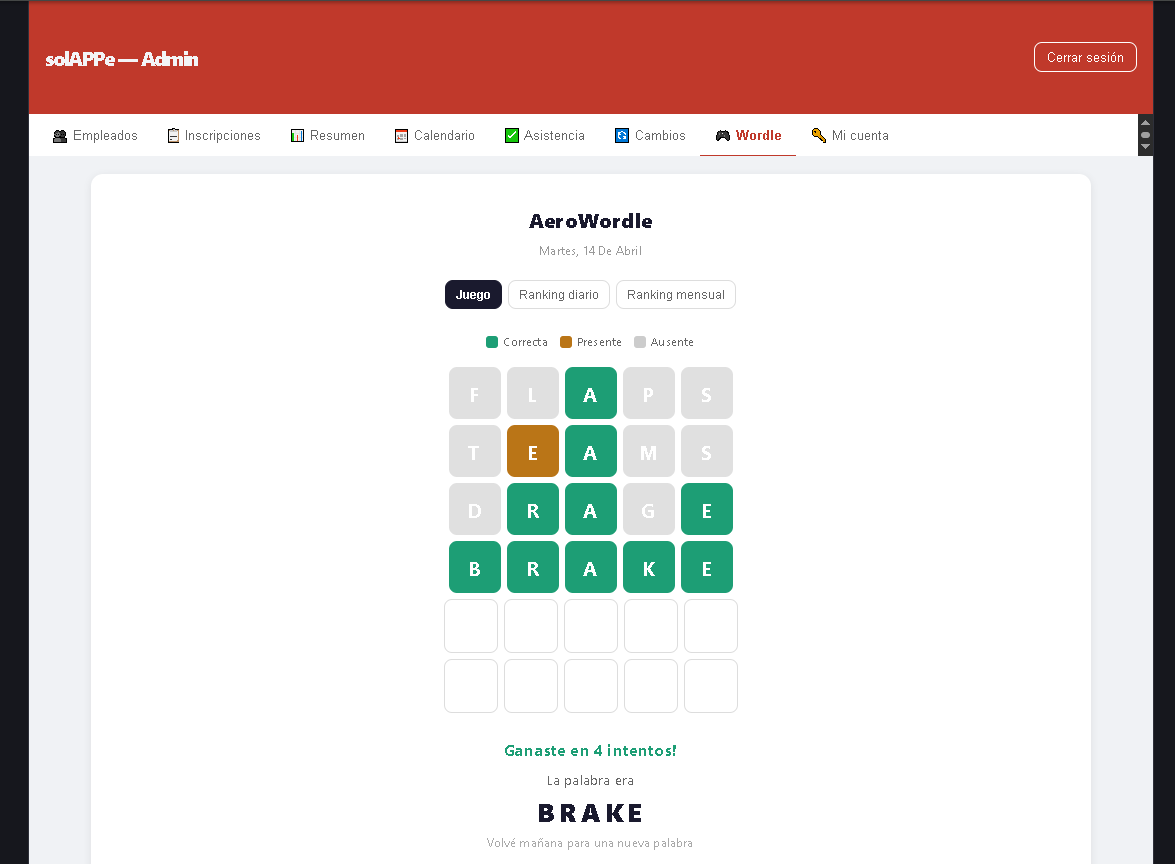
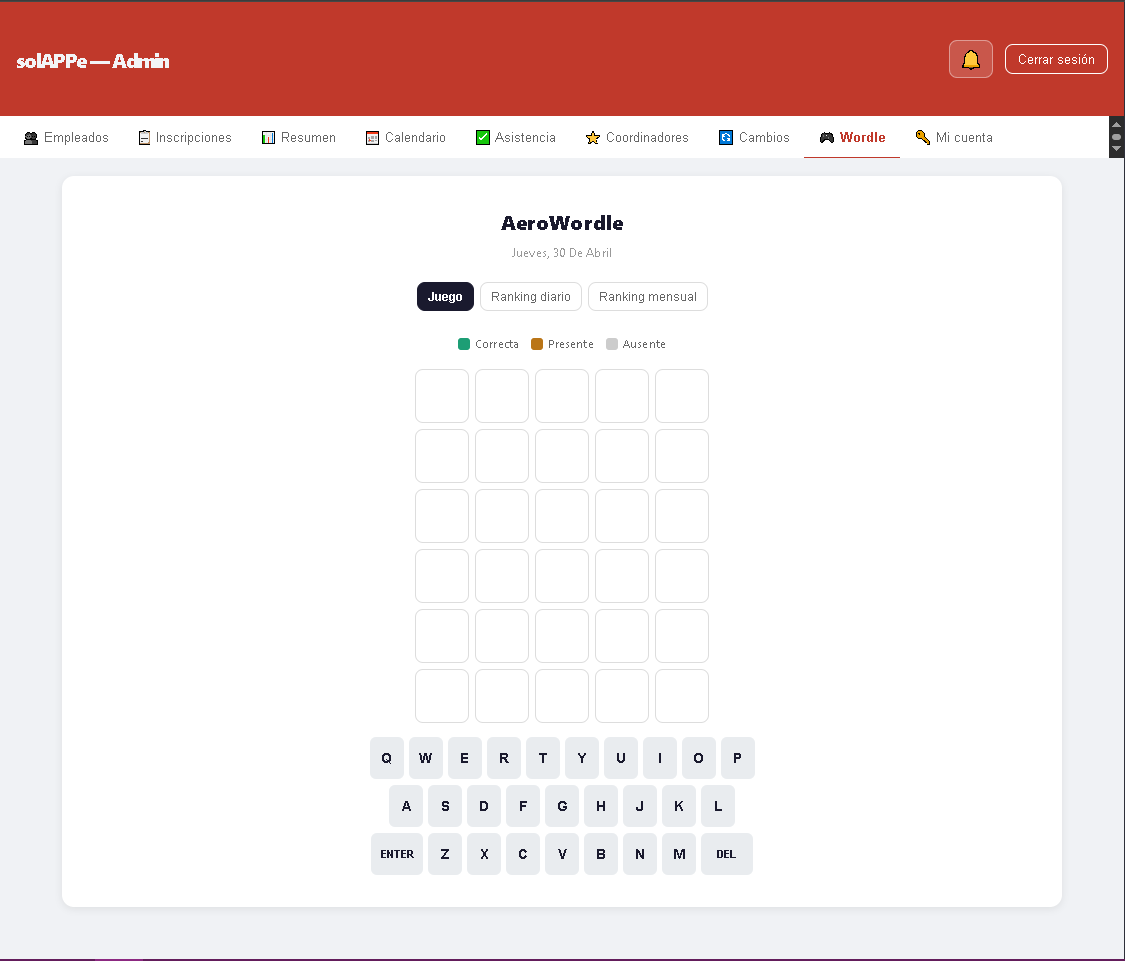
fix: wordle reinicio intentos + palabras limpias, calendario bloqueo solicitudes duplicadas

diff --git a/src/pages/Wordle.jsx b/src/pages/Wordle.jsx
@@ -1,16 +1,45 @@
 import { useState, useEffect } from "react";
 import { auth, db } from "../firebase";
-import { doc, getDoc, setDoc, updateDoc } from "firebase/firestore";
+import { doc, getDoc, setDoc } from "firebase/firestore";
 
+// Lista ampliada con palabras de los MEL A330 y B737-NG + términos aeronáuticos válidos
 const PALABRAS = [
-  "RADAR","FLAPS","PITCH","STALL","RADIO","PISTA","TOWER","SPEED","CLIMB","GLIDE",
-  "FLARE","BRAKE","BOOST","CARGO","DELTA","OSCAR","ROMEO","TANGO","ULTRA","VAPOR",
-  "KNOTS","LASER","MILLA","NODOS","PULSO","SIGMA","XENON","YAWEO","TIRES","SHOCK",
-  "PROBE","OZONE","NIGHT","MIXER","LEVER","INLET","GAUGE","FENCE","DRAIN","CHORD",
-  "BLADE","HIELO","NIEVE","TURBO","SERVO","AVION","VUELO","MOTOR","VIRAJ",
-  "MORRO","NORTE","GRUES","PAUSA","BALOM","CABLE","HERTZ","IONES","JATOS","RACON",
-  "TENOR","VOLTS","WATTS","WINGS","EXTRA","HATCH","ELBOW","ABAFT","AHEAD","BELOW",
-  "ALTIT","UPPER","RUDDE","GRABA","ENFOK",
+  // Originales válidas
+  "RADAR","FLAPS","PITCH","STALL","RADIO","TOWER","SPEED","CLIMB","GLIDE",
+  "FLARE","BRAKE","CARGO","DELTA","ROMEO","TANGO","VAPOR",
+  "KNOTS","LASER","PROBE","NIGHT","LEVER","INLET","GAUGE","DRAIN","CHORD",
+  "BLADE","TURBO","SERVO","AVION","VUELO","MOTOR",
+  "CABLE","HERTZ","VOLTS","WATTS","WINGS","HATCH",
+  // Desde MEL A330/B737 validadas
+  "ALPHA","BELTS","BLEED","BRACE","FRAME","GEARS","INERT","PEDAL",
+  "PUMPS","SHAFT","SLIDE","SPLIT","SURGE","XWIND","GRAPH","ADAPT",
+  "START","INPUT","TWICE","WHITE","INDEX",
+  // Términos aeronáuticos de 5 letras adicionales
+  "PITOT","SLATS","WHEEL","SEATS","FLARE","VOICE","VIDEO","WATER",
+  "ACARS","LATCH","HINGE","TOUCH","SQUIB","ETOPS",
+  // Inglés aeronáutico jugable
+  "ABORT","ALIGN","AXIAL","BOOST","CABIN","CHECK","CYCLE","DATUM",
+  "DECAL","DEPOT","DITCH","EJECT","EGPWS","ELBOW","ENRTE","ENTER",
+  "EXPEL","FERRY","FINAL","FLAIR","FLANK","FLOOR","FLOUT","FLUSH",
+  "FOILS","FUMES","FUSEL","GLIDE","GLINT","GLOBE","GLOSS","GONZO",
+  "GRIDS","GRIPS","GROSS","GUARD","GYROS","HOLDS","HOVER","HUMID",
+  "HYDRO","IGLOO","IGNIT","INSTR","INTER","IONIC","JOINT","JOULE",
+  "KNEEL","LAPSE","LATCH","LEANS","LIMIT","LINER","LOCAL","LORAN",
+  "MAINS","MASSE","MIXER","MLG","NOZZL","OMEGA","OUTER","OVHD",
+  "OZONE","PANEL","PEDAL","PHASE","PITCH","PIXEL","PLUMB","POLAR",
+  "PROBE","PURGE","RACON","RANGE","RELAY","RESET","RIVET","ROTOR",
+  "ROUTE","RUDDE","SCHED","SEALS","SHEAR","SHIFT","SHOCK","SHORT",
+  "SHUTT","SKEWS","SLIDE","SLIPS","SLOTS","SMOKE","SONIC","SPILL",
+  "SPOKE","SPOOL","SPRAY","STACK","STAGE","STALL","STEER","STERN",
+  "STOPS","STRUT","SURGE","SWEEP","SWEPT","SWIRL","SYNCH","TABLT",
+  "TEMPO","THROT","TILTS","TIMER","TORQU","TOXIC","TRACK","TRANS",
+  "TRIMS","TROPO","TRUNN","TUNER","TURBO","TWIST","ULTRA","UMBIL",
+  "VALVE","VAPOR","VENTS","VERGE","VLOCS","VORTX","WARNS","WASHS",
+  "WEDGE","WEIGH","WIRES","YOKES","ZONES",
+  // Español aeronáutico
+  "HIELO","NIEVE","NORTE","MORRO","PISTA","AVION","VUELO",
+  "MOTOR","TURBO","DELTA","CABLE","SIGMA","ULTRA","VAPOR","NODOS",
+  "MILLA","PULSO","TENOR","HERTZ","IONES","PAUSA","SERVO",
 ].map(p => p.replace(/[^A-Z]/g,'').slice(0,5)).filter(p => p.length === 5);
 
 const PALABRAS_LIMPIAS = [...new Set(PALABRAS)];
@@ -65,7 +94,6 @@ export default function Wordle() {
   }, [tab, juegoTerminado, intentoActual, intentos]);
 
   const iniciar = async () => {
-    // 1. Leer nombre del empleado desde Firestore
     let nombre = "Anónimo";
     if (user) {
       try {
@@ -80,16 +108,40 @@ export default function Wordle() {
     }
     setUserName(nombre);
 
-    // 2. Recuperar estado del día desde localStorage
+    // Recuperar estado del día — tanto partidas terminadas como en curso
     const estadoGuardado = localStorage.getItem("wordle_estado_" + getTodayKey());
     if (estadoGuardado) {
-      const estado = JSON.parse(estadoGuardado);
-      setIntentos(estado.intentos);
-      setJuegoTerminado(true);
-      setGano(estado.gano);
+      try {
+        const estado = JSON.parse(estadoGuardado);
+        setIntentos(estado.intentos || []);
+        // Si el juego terminó, restaurar estado final
+        if (estado.terminado) {
+          setJuegoTerminado(true);
+          setGano(estado.gano || false);
+        }
+        // Si no terminó pero hay intentos, restaurar en curso
+        // (juegoTerminado queda false, el jugador puede seguir)
+      } catch (e) {
+        console.error("Error restaurando estado:", e);
+      }
     }
     setCargado(true);
   };
+
+  // Guardar estado parcial cada vez que cambian los intentos
+  useEffect(() => {
+    if (!cargado) return;
+    const estadoActual = localStorage.getItem("wordle_estado_" + getTodayKey());
+    const estado = estadoActual ? JSON.parse(estadoActual) : {};
+    // Solo actualizar si no terminó (si terminó, guardarResultado ya lo hizo)
+    if (!estado.terminado) {
+      localStorage.setItem("wordle_estado_" + getTodayKey(), JSON.stringify({
+        intentos,
+        terminado: false,
+        gano: false,
+      }));
+    }
+  }, [intentos, cargado]);
 
   const evaluar = (intento, palabra) => {
     const res = Array(5).fill(null).map((_, i) => ({ letra: intento[i], estado: "absent" }));
@@ -133,15 +185,16 @@ export default function Wordle() {
   };
 
   const guardarResultado = async (intentosFinal, gano) => {
-    // Guardar estado local para no repetir hoy
-    localStorage.setItem("wordle_estado_" + getTodayKey(), JSON.stringify({ intentos: intentosFinal, gano }));
+    // Guardar estado final — marcado como terminado
+    localStorage.setItem("wordle_estado_" + getTodayKey(), JSON.stringify({
+      intentos: intentosFinal,
+      terminado: true,
+      gano,
+    }));
 
     const nombre = userName;
     const uid = user?.uid || "anonimo";
 
-    // --- Ranking diario en Firestore ---
-    // Documento: wordleRanking/{fecha}
-    // Campo: jugadores[uid] = { nombre, intentos, gano, ts }
     try {
       const refDiario = doc(db, "wordleRanking", getTodayKey());
       const snapDiario = await getDoc(refDiario);
@@ -152,15 +205,11 @@ export default function Wordle() {
       console.error("Error guardando ranking diario:", e);
     }
 
-    // --- Ranking mensual en Firestore ---
-    // Documento: wordleRankingMensual/{año-mes}
-    // Campo: jugadores[uid] = { nombre, victorias, totalIntentos, partidas }
     try {
       const refMensual = doc(db, "wordleRankingMensual", getMonthKey());
       const snapMensual = await getDoc(refMensual);
       const jugadores = snapMensual.exists() ? (snapMensual.data().jugadores || {}) : {};
       if (!jugadores[uid]) jugadores[uid] = { nombre, victorias: 0, totalIntentos: 0, partidas: 0 };
-      // Actualizar nombre por si cambió
       jugadores[uid].nombre = nombre;
       jugadores[uid].partidas++;
       if (gano) {
@@ -174,30 +223,22 @@ export default function Wordle() {
   };
 
   const cargarRankings = async () => {
-    // Ranking diario
     try {
       const snapDiario = await getDoc(doc(db, "wordleRanking", getTodayKey()));
       const jugadores = snapDiario.exists() ? Object.values(snapDiario.data().jugadores || {}) : [];
-      const listaDiaria = jugadores.sort((a, b) =>
+      setRankingDiario(jugadores.sort((a, b) =>
         a.gano === b.gano ? a.intentos - b.intentos : (b.gano ? 1 : -1)
-      );
-      setRankingDiario(listaDiaria);
-    } catch (e) {
-      setRankingDiario([]);
-    }
+      ));
+    } catch (e) { setRankingDiario([]); }
 
-    // Ranking mensual
     try {
       const snapMensual = await getDoc(doc(db, "wordleRankingMensual", getMonthKey()));
       const jugadores = snapMensual.exists() ? Object.values(snapMensual.data().jugadores || {}) : [];
-      const listaMensual = jugadores.sort((a, b) =>
+      setRankingMensual(jugadores.sort((a, b) =>
         b.victorias !== a.victorias ? b.victorias - a.victorias
           : (a.victorias > 0 ? a.totalIntentos / a.victorias : 99) - (b.victorias > 0 ? b.totalIntentos / b.victorias : 99)
-      );
-      setRankingMensual(listaMensual);
-    } catch (e) {
-      setRankingMensual([]);
-    }
+      ));
+    } catch (e) { setRankingMensual([]); }
   };
 
   const estadosLetras = {};
@@ -221,7 +262,6 @@ export default function Wordle() {
 
   if (!cargado) return null;
 
-  // Tamaños responsivos: se achican en pantallas chicas
   const celdaSize = "clamp(38px, 11vw, 52px)";
   const celdaFont = "clamp(15px, 4vw, 20px)";
   const teclaMin = "clamp(24px, 7.5vw, 34px)";
@@ -237,7 +277,6 @@ export default function Wordle() {
       </div>
       <div style={{ textAlign: "center", fontSize: 12, color: "#999", marginBottom: 16, textTransform: "capitalize" }}>{nombreHoy}</div>
 
-      {/* Tabs */}
       <div style={{ display: "flex", gap: 6, justifyContent: "center", marginBottom: 20 }}>
         {[["juego","Juego"],["diario","Ranking diario"],["mensual","Ranking mensual"]].map(([k, label]) => (
           <button key={k} style={{
@@ -254,7 +293,6 @@ export default function Wordle() {
 
       {tab === "juego" && (
         <>
-          {/* Leyenda */}
           <div style={{ display: "flex", gap: 12, justifyContent: "center", marginBottom: 12, flexWrap: "wrap" }}>
             {[["#1D9E75","Correcta"],["#BA7517","Presente"],["#ccc","Ausente"]].map(([c, l]) => (
               <div key={l} style={{ display: "flex", alignItems: "center", gap: 5, fontSize: 11, color: "#666" }}>
@@ -264,7 +302,6 @@ export default function Wordle() {
             ))}
           </div>
 
-          {/* Tablero */}
           <div style={{ display: "flex", flexDirection: "column", gap: "clamp(4px, 1.5vw, 6px)", alignItems: "center", marginBottom: 14 }}>
             {Array.from({ length: MAX_INTENTOS }).map((_, i) => (
               <div key={i} style={{ display: "flex", gap: "clamp(4px, 1.5vw, 6px)" }}>
@@ -290,10 +327,8 @@ export default function Wordle() {
             ))}
           </div>
 
-          {/* Mensaje */}
           {msg && <div style={{ textAlign: "center", fontSize: 14, color: "#e74c3c", marginBottom: 8 }}>{msg}</div>}
 
-          {/* Resultado */}
           {juegoTerminado && (
             <div style={{ textAlign: "center", padding: "10px 0", marginBottom: 10 }}>
               <div style={{ fontSize: 16, fontWeight: 700, color: gano ? "#1D9E75" : "#e74c3c", marginBottom: 4 }}>
@@ -305,7 +340,6 @@ export default function Wordle() {
             </div>
           )}
 
-          {/* Teclado */}
           {!juegoTerminado && (
             <div style={{ display: "flex", flexDirection: "column", gap: "clamp(4px, 1.5vw, 6px)", alignItems: "center" }}>
               {filasTeclado.map((fila, fi) => (

diff --git a/src/pages/Calendario.jsx b/src/pages/Calendario.jsx
@@ -1,6 +1,6 @@
 import { useState, useEffect, useRef } from "react";
 import { db, auth } from "../firebase";
-import { collection, getDocs, addDoc } from "firebase/firestore";
+import { collection, getDocs, addDoc, query, where } from "firebase/firestore";
 import { getTurnoParaDia } from "../utils/distribucion";
 import { getCoordinadoresMes } from "../utils/coordinadores";
 import html2canvas from "html2canvas";
@@ -190,6 +190,25 @@ export default function Calendario({ esAdmin, solicitudesEnviadas = [], solicitu
     if (!diaCompSeleccionado) return;
     setEnviando(true);
     try {
+      // Verificar que no exista ya una solicitud pendiente entre estos dos usuarios
+      // para los mismos días — evitar envío a múltiples personas del mismo día
+      const snapExistentes = await getDocs(
+        query(
+          collection(db, "solicitudesCambio"),
+          where("solicitanteId", "==", user.uid),
+          where("estado", "==", "pendiente"),
+          where("diaOrigen", "==", modalCambio.diaOrigen),
+          where("mesOrigen", "==", mes),
+          where("anioOrigen", "==", anio)
+        )
+      );
+
+      if (!snapExistentes.empty) {
+        setMensajeCambio("⚠ Ya tenés una solicitud pendiente para ese día. Cancelala antes de enviar una nueva.");
+        setEnviando(false);
+        return;
+      }
+
       await addDoc(collection(db, "solicitudesCambio"), {
         solicitanteId: user.uid,
         receptorId: compSeleccionado,
@@ -479,7 +498,7 @@ export default function Calendario({ esAdmin, solicitudesEnviadas = [], solicitu
                 <button style={styles.modalBotonVolver} onClick={() => setPaso(1)}>← Volver</button>
                 {diaCompSeleccionado && (
                   <button style={styles.modalBotonEnviar} onClick={enviarSolicitud} disabled={enviando}>
-                    {enviando ? "Enviando..." : "Solicitar cambio"}
+                    {enviando ? "Verificando..." : "Solicitar cambio"}
                   </button>
                 )}
               </div>
@@ -487,7 +506,9 @@ export default function Calendario({ esAdmin, solicitudesEnviadas = [], solicitu
           )}
           {paso === 3 && (
             <div style={styles.modalExito}>
-              <p style={{ color: "#27ae60", fontWeight: 600, fontSize: 15 }}>{mensajeCambio}</p>
+              <p style={{ color: mensajeCambio.startsWith("⚠") ? "#e74c3c" : "#27ae60", fontWeight: 600, fontSize: 15 }}>
+                {mensajeCambio}
+              </p>
               <button style={styles.modalBotonEnviar} onClick={cerrarModal}>Cerrar</button>
             </div>
           )}

diff --git a/src/pages/Admin.jsx b/src/pages/Admin.jsx
@@ -1596,6 +1596,7 @@ export default function Admin() {
                     return (
                       <div key={d} style={{
                         display: "flex", alignItems: "center", gap: 10,
+                        flexWrap: "wrap",
                         padding: "8px 12px", borderRadius: 8,
                         background: hoyFlag ? "#fdf2f2" : coord ? "white" : "#fef9e7",
                         border: `1px solid ${hoyFlag ? "#c0392b" : coord ? "#eee" : "#f39c12"}`,
